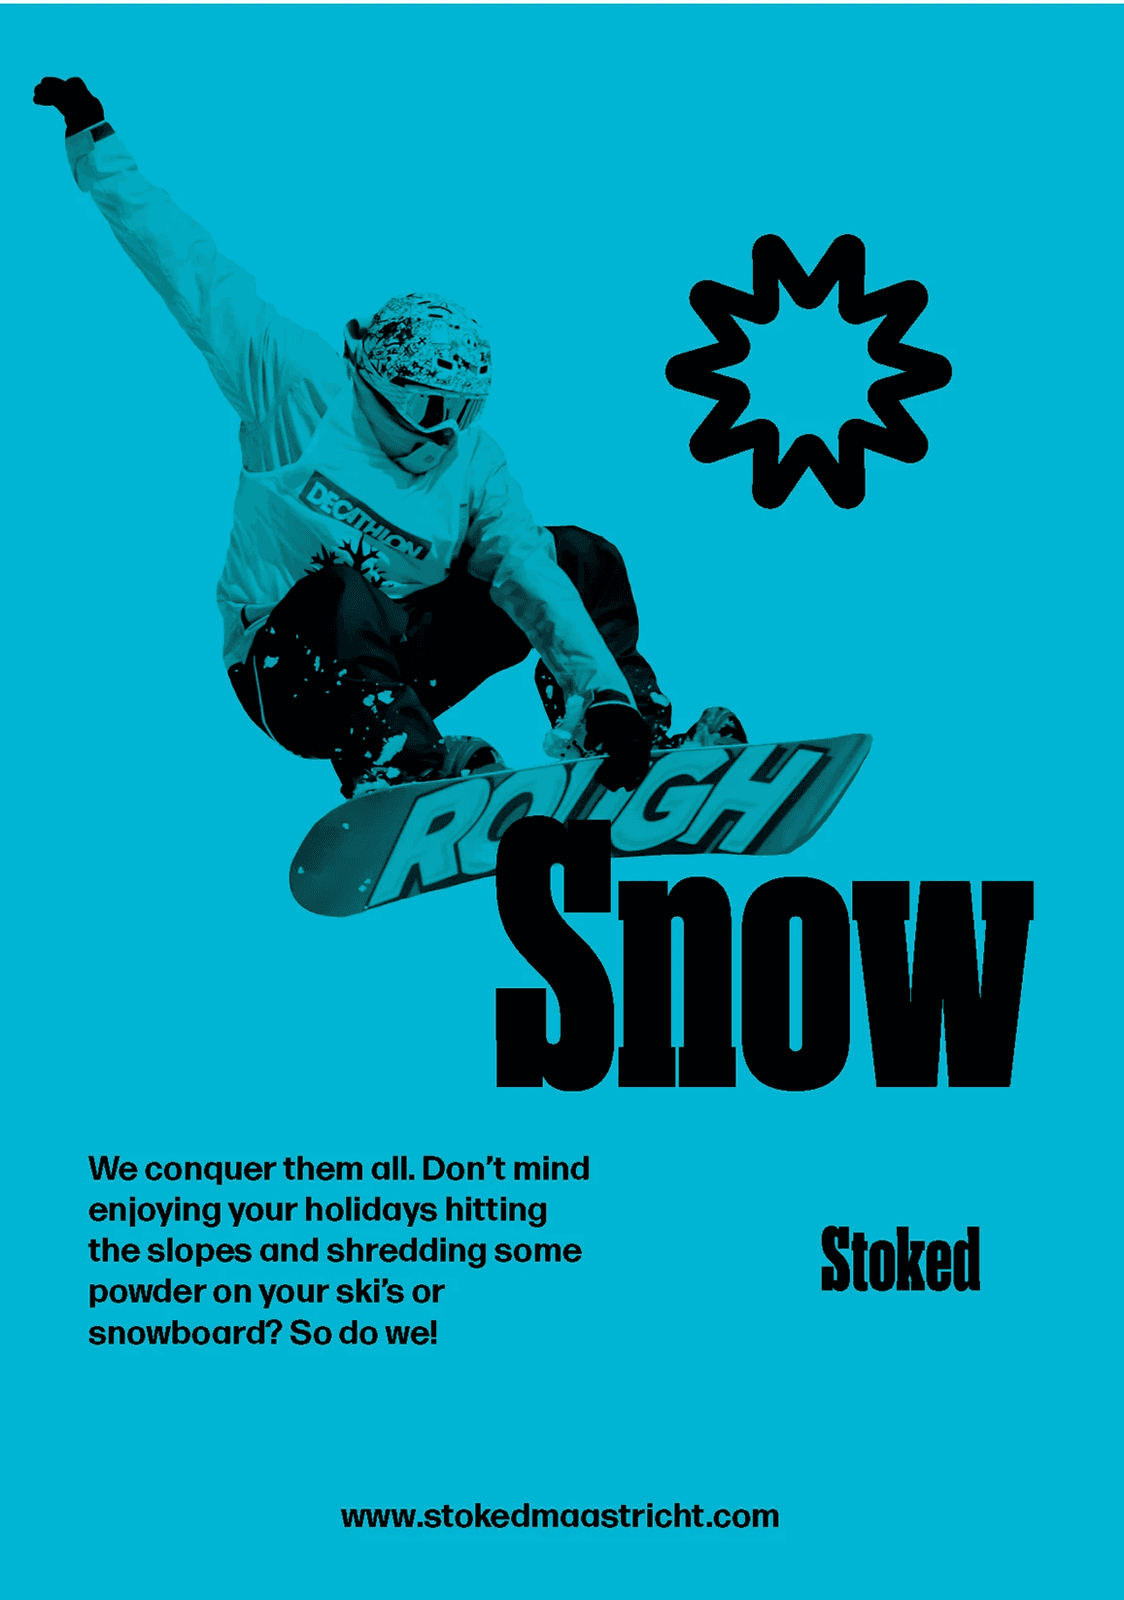
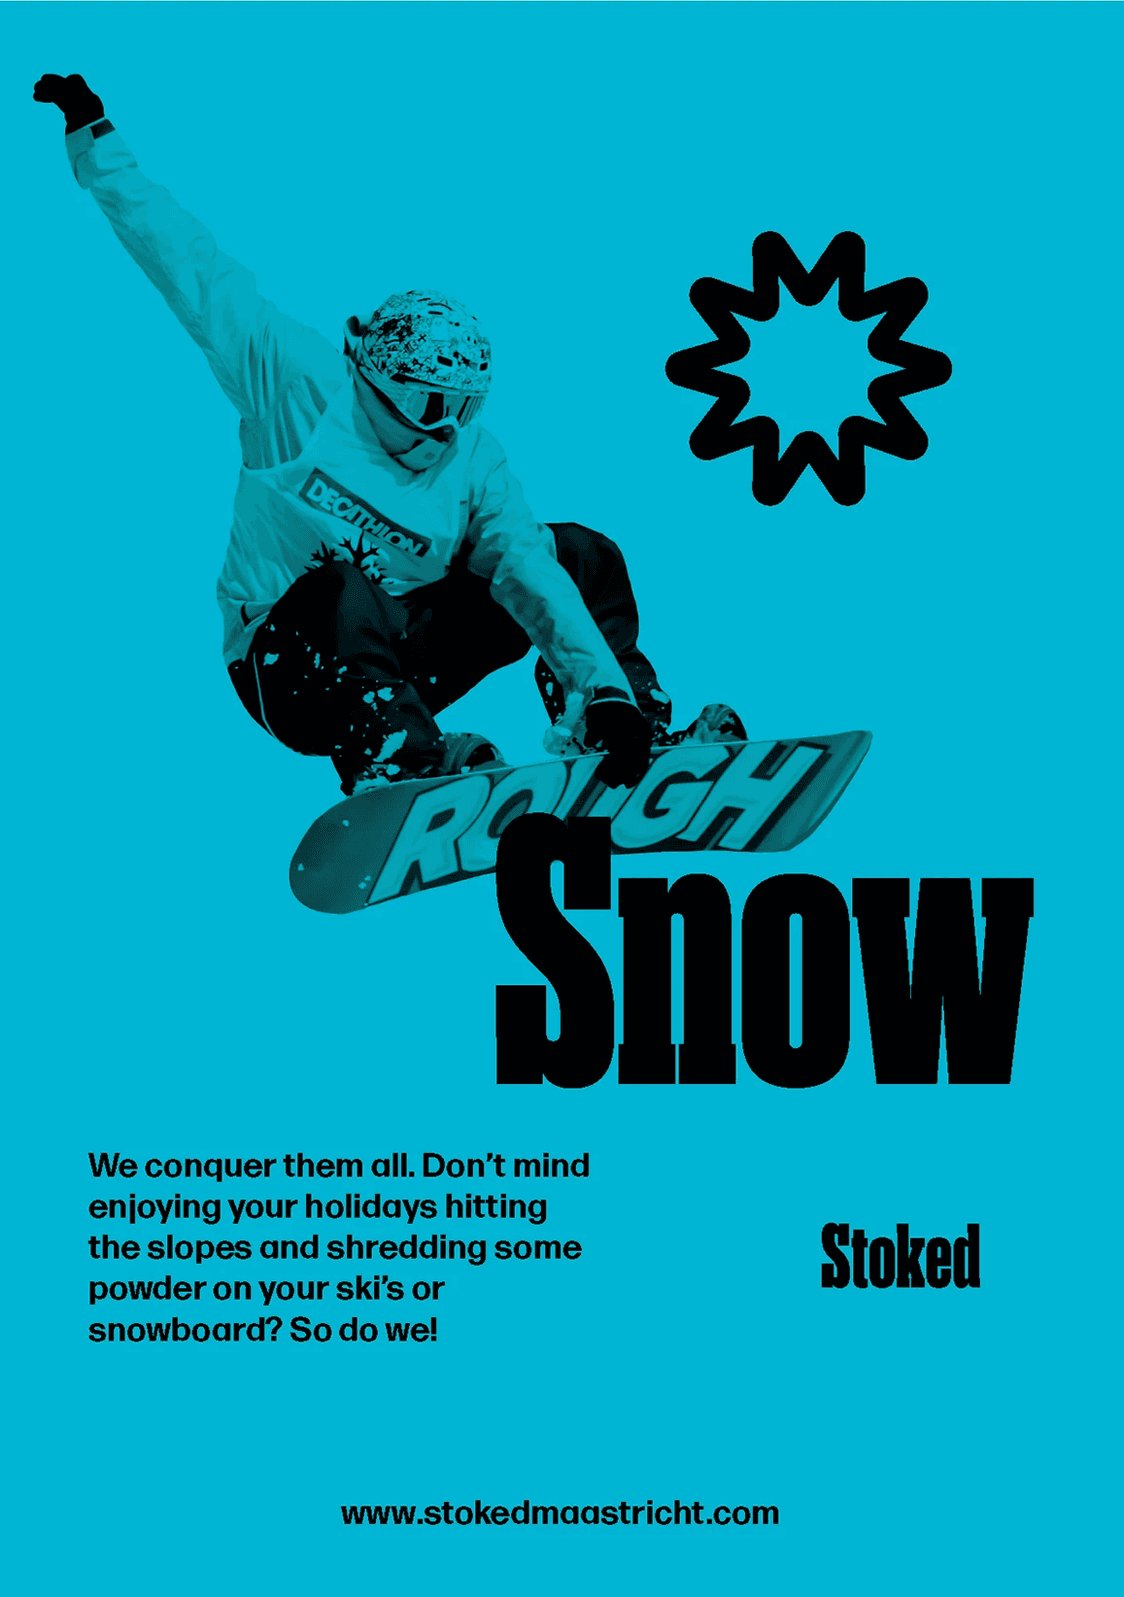
Add files via upload

diff --git a/assets/css/style.css b/assets/css/style.css
@@ -379,9 +379,13 @@ a.pill-dark:hover { background: #000; }
 .corner.br { bottom: 0; right: 0; border-bottom: 2px solid var(--ink); border-right: 2px solid var(--ink); }
 .footer-bar {
   padding: 22px 0;
-  display: flex; justify-content: space-between; align-items: center; gap: 14px;
-  flex-wrap: wrap;
+  display: grid; grid-template-columns: minmax(0,1fr) auto minmax(0,1fr); align-items: center;
   font-size: 13px; color: var(--muted-light);
+}
+.footer-bar > :first-child { justify-self: start; }
+.footer-bar > :nth-child(2) { justify-self: center; color: var(--ink); }
+.footer-bar > :last-child { justify-self: end; }
+@media (max-width: 700px) { .footer-bar { grid-template-columns: 1fr; justify-items: center; text-align: center; row-gap: 6px; } }
 }
 @media (max-width: 700px) {
   .footer-top { grid-template-columns: 1fr 1fr; }
@@ -552,8 +556,10 @@ a.pill-dark:hover { background: #000; }
 .ha-bg { position: absolute; inset: 0; width: 100%; height: 100%; object-fit: cover; object-position: center; }
 .ha-overlay { position: absolute; inset: 0; background: rgba(0,0,0,.42); }
 .ha-inner { position: relative; z-index: 1; }
-.ha-head { display: flex; align-items: flex-end; justify-content: space-between; gap: 40px; flex-wrap: wrap; margin-bottom: clamp(60px, 9vw, 130px); }
+.ha-head { display: flex; align-items: flex-end; justify-content: space-between; gap: 40px; flex-wrap: wrap; margin-bottom: clamp(28px, 3vw, 44px); }
 .ha-head .big-title { color: #fff; }
+.ha-col .big-title { color: #fff; }
+.ha-col .ha-intro { margin: 18px 0 0; }
 .ha-intro { max-width: 34ch; font-size: 16px; line-height: 1.5; color: #fff; margin: 0; }
 .ha-cols { display: grid; grid-template-columns: 1fr 1fr; gap: clamp(30px, 6vw, 100px); align-items: start; }
 .ha-col-r { display: grid; grid-template-columns: 1fr; gap: 56px; padding-left: clamp(0px, 8vw, 120px); }
@@ -566,7 +572,7 @@ a.pill-dark:hover { background: #000; }
 .ha-num { font-size: clamp(44px, 5vw, 60px); font-weight: 400; color: #f2f2f2; line-height: 1; letter-spacing: -0.04em; }
 @media (max-width: 700px) {
   .ha-cols { grid-template-columns: 1fr; }
-  .ha-col-r { padding-left: 0; grid-template-columns: 1fr 1fr; gap: 24px; }
+  .ha-col-r { padding-left: 0 !important; padding-top: 0 !important; grid-template-columns: 1fr 1fr; gap: 24px; }
   .ha-h2 { margin-top: 36px; }
 }
 
@@ -601,7 +607,7 @@ a.pill-dark:hover { background: #000; }
 .ab-desc { margin: 28px 0 0; font-size: 14px; line-height: 1.55; color: #7e7e7e; letter-spacing: -0.02em; max-width: 600px; }
 
 .ab-dark { background: #1b1b1c; color: #fff; padding: 120px 0 130px; }
-.ab-orgs-head { align-items: end; margin-bottom: 70px; }
+.ab-orgs-head { align-items: end; margin-bottom: 90px; column-gap: 120px; margin-top: 40px; }
 .ab-h2-white { font-size: clamp(32px, 3.4vw, 44px); font-weight: 400; line-height: 1.2; letter-spacing: -0.04em; margin: 0; max-width: 11ch; }
 .ab-orgs-p { font-size: 16px; line-height: 1.5; color: #bdbdbd; max-width: 406px; margin: 0 0 0 auto; letter-spacing: -0.02em; }
 .ab-org-grid { display: grid; grid-template-columns: repeat(4, 1fr); gap: 10px; }
@@ -621,4 +627,64 @@ a.pill-dark:hover { background: #000; }
   .ab-exp { padding-top: 80px; }
   .ab-approach { margin-top: 110px; }
   .ab-job-top { flex-direction: column; gap: 6px; }
+}
+
+/* ================= V10 additions ================= */
+/* numbered section heads (Perandory numerals like the original) */
+.sec-head { display: flex; align-items: flex-start; gap: clamp(20px, 3vw, 42px); }
+.sec-num { font-family: var(--condensed); font-size: clamp(56px, 8vw, 110px); line-height: .8; letter-spacing: 0; margin: 0; }
+.sec-num.blue { color: #6FE4FF; } .sec-num.red { color: #C0322D; } .sec-num.pink { color: #B75D69; }
+.sec-head .mid-title, .sec-head .big-title { margin: 0; padding-top: clamp(8px, 2vw, 22px); }
+
+/* --- Sydney --- */
+.sy-subcats { display: grid; grid-template-columns: repeat(2, minmax(0, 271px)); gap: 44px 20px; margin-top: 40px; }
+.sy-subcats span { font-size: 18px; letter-spacing: .02em; color: #fff; text-transform: uppercase; line-height: 1.15; max-width: 200px; }
+.mk-top { display: grid; grid-template-columns: 1fr minmax(300px, 593px); gap: 40px; align-items: start; margin-top: 0; }
+.mk-img { max-width: 593px; margin: 56px auto 0; }
+
+/* --- Let's Dance --- */
+.ld-h { font-family: var(--condensed); font-weight: 400; text-transform: uppercase; line-height: .95; letter-spacing: 0; margin: 0; }
+.ld-cap { font-size: 16px; color: rgba(255,255,255,.6); text-transform: uppercase; letter-spacing: .02em; margin-top: 14px; }
+.ld-list { display: flex; flex-direction: column; gap: 14px; margin-top: 28px; }
+.ld-list span { font-size: 16px; text-transform: uppercase; letter-spacing: .02em; color: var(--ink); }
+.ld-emoji-list { list-style: none; margin: 40px 0 0; padding: 0; display: flex; flex-direction: column; gap: 26px; }
+.ld-emoji-list li { display: flex; align-items: baseline; gap: 18px; font-size: 20px; color: #fff; }
+.ld-emoji-list .em { font-size: 34px; line-height: 1; filter: grayscale(1); }
+
+/* --- PowerVrouwen --- */
+.pv-stats { display: grid; grid-template-columns: repeat(3, minmax(0, 367px)); gap: 24px; margin-top: 56px; }
+.pv-stats .v { font-family: var(--display); font-size: 40px; line-height: 1; color: #B75D69; }
+.pv-stats .l { font-size: 24px; color: #fff; margin-top: 10px; letter-spacing: .01em; }
+.pv-mixed { display: flex; align-items: baseline; flex-wrap: wrap; gap: 18px; }
+.pv-mixed .w1 { font-family: var(--display); font-size: clamp(26px, 3vw, 41px); font-weight: 400; }
+.pv-mixed .w2 { font-family: var(--sans); font-size: clamp(36px, 4.3vw, 56px); font-weight: 500; letter-spacing: -0.02em; }
+.pv-duo { display: grid; gap: clamp(24px, 6vw, 100px); }
+.pv-duo.c-73 { grid-template-columns: 7fr 3fr; } .pv-duo.c-37 { grid-template-columns: 3fr 7fr; }
+.pv-duo h3 { font-size: clamp(34px, 4vw, 56px); font-weight: 600; letter-spacing: -0.03em; margin: 0; color: inherit; }
+.pv-duo .cap { font-size: 16px; margin: 12px 0 22px; color: #555; }
+.pv-duo img { width: 100%; display: block; }
+.pv-join { text-align: center; }
+.pv-join h2 { font-family: var(--condensed); font-size: clamp(60px, 8vw, 90px); text-transform: none; line-height: .95; margin: 0; }
+.pv-join p { max-width: 46ch; margin: 28px auto 0; }
+.pv-join .to-site { display: inline-block; margin-top: 30px; font-size: 14px; color: var(--ink); text-decoration: underline; text-underline-offset: 4px; }
+
+/* --- Stoked rebrand --- */
+.st-blue { background: #2F7FFF; padding: clamp(40px, 6vw, 90px) 0; }
+.st-blue h2 { font-family: var(--condensed); font-size: clamp(44px, 6.5vw, 84px); text-transform: uppercase; color: #101418; line-height: .95; margin: 0; }
+.st-sect { margin-top: clamp(70px, 9vw, 130px); }
+.st-sect img.st-photo { width: 100%; aspect-ratio: 16/9; object-fit: cover; display: block; }
+.st-row { display: flex; align-items: flex-start; gap: 26px; margin-top: 22px; flex-wrap: wrap; }
+.st-word { font-family: var(--condensed); font-size: clamp(70px, 11vw, 150px); line-height: .9; text-transform: uppercase; margin: 0; }
+.st-word.surf { color: #F7FF4D; } .st-word.skate { color: #FF4D2E; } .st-word.snow { color: #00F0FF; }
+.st-ico { width: clamp(38px, 4vw, 56px); height: auto; margin-top: clamp(18px, 3vw, 46px); flex: none; }
+.st-desc { font-size: 16px; line-height: 1.55; color: #E6E6E6; max-width: 60ch; margin: 18px 0 0; }
+
+/* --- Stiphout landscape full-width images --- */
+.full-imgs { display: flex; flex-direction: column; gap: clamp(28px, 4vw, 56px); }
+.full-imgs img { width: 100%; aspect-ratio: 16/10; object-fit: cover; display: block; }
+
+@media (max-width: 860px) {
+  .mk-top, .pv-duo.c-73, .pv-duo.c-37 { grid-template-columns: 1fr; }
+  .pv-stats { grid-template-columns: 1fr; gap: 34px; }
+  .sy-subcats { grid-template-columns: repeat(2, minmax(0, 1fr)); }
 }

diff --git a/work.html b/work.html
@@ -9,7 +9,7 @@
 <link rel="preconnect" href="https://fonts.googleapis.com">
 <link rel="preconnect" href="https://fonts.gstatic.com" crossorigin>
 <link href="https://fonts.googleapis.com/css2?family=Geist:wght@300;400;500;600;700&family=Inter:wght@400;500&family=Space+Grotesk:wght@500;700&display=swap" rel="stylesheet">
-<link rel="stylesheet" href="assets/css/style.css">
+<link rel="stylesheet" href="assets/css/style.css?v=10">
 
 <meta property="og:type" content="website">
 <meta property="og:title" content="Projects & Branding — DignaStudio">
@@ -65,7 +65,7 @@
   <img src="assets/images/1KBRhCo6NHKVn5nRfk7xx7rYAQ.jpg" alt="Social media management & 3D printing" loading="lazy">
   <div class="card-caption">Social media management & 3D printing</div>
 </a>
-<a class="project-card reveal" href="">
+<a class="project-card reveal" href="projects/bonnefanten.html">
   <img src="assets/images/4KLMpC2YSAhEmo6zrLtEhWOdHhA.jpg" alt="Interactive art installation" loading="lazy">
   <div class="card-caption">Interactive art installation</div>
 </a>
@@ -77,15 +77,15 @@
   <img src="assets/images/alI9fsgJW2PH68kstJMwLCHusk.png" alt="A campaign for a female business platform" loading="lazy">
   <div class="card-caption">A campaign for a female business platform</div>
 </a>
-<a class="project-card reveal" href="">
+<a class="project-card reveal" href="projects/greenscene.html">
   <img src="assets/images/1LCmktrPKE3fg5eB0acz9XCw.png" alt="Interactive multimedia story" loading="lazy">
   <div class="card-caption">Interactive multimedia story</div>
 </a>
-<a class="project-card reveal" href="">
+<a class="project-card reveal" href="about.html#experience">
   <img src="assets/images/Mb1SpgGCqTMcEmvKrffdjMD2s.png" alt="A system to maintain healthy sleep habits" loading="lazy">
   <div class="card-caption">A system to maintain healthy sleep habits</div>
 </a>
-<a class="project-card reveal" href="">
+<a class="project-card reveal" href="projects/steam.html">
   <img src="assets/images/f844mpcv3d278ZgnQ2Nbx9zhao.png" alt="STEAM-based educating through VR" loading="lazy">
   <div class="card-caption">STEAM-based educating through VR</div>
 </a>
@@ -151,6 +151,6 @@
     </div>
   </div>
 </footer>
-<script src="assets/js/main.js"></script>
+<script src="assets/js/main.js?v=10"></script>
 </body>
 </html>

diff --git a/index.html b/index.html
@@ -9,7 +9,7 @@
 <link rel="preconnect" href="https://fonts.googleapis.com">
 <link rel="preconnect" href="https://fonts.gstatic.com" crossorigin>
 <link href="https://fonts.googleapis.com/css2?family=Geist:wght@300;400;500;600;700&family=Inter:wght@400;500&family=Space+Grotesk:wght@500;700&display=swap" rel="stylesheet">
-<link rel="stylesheet" href="assets/css/style.css">
+<link rel="stylesheet" href="assets/css/style.css?v=10">
 
 <meta property="og:type" content="website">
 <meta property="og:title" content="Digna Studio - Designer | Creator | UGC">
@@ -142,12 +142,10 @@
   <img class="ha-bg" src="assets/images/OYgknsLv5gv8yH3k2fbcFdj1730.jpeg" alt="" loading="lazy">
   <div class="ha-overlay"></div>
   <div class="container ha-inner">
-    <div class="ha-head">
-      <h2 class="big-title reveal">About Digna</h2>
-      <p class="ha-intro reveal">Welcome and nice to meet you! My name is Digna.</p>
-    </div>
     <div class="ha-cols">
       <div class="ha-col reveal">
+        <h2 class="big-title reveal">About Digna</h2>
+        <p class="ha-intro reveal">Welcome and nice to meet you! My name is Digna.</p>
         <h3 class="ha-h">Services</h3>
         <ul class="ha-list">
           <li>UGC &amp; Content Creation</li>
@@ -160,7 +158,7 @@
           <li><a href="mailto:digna.lambrichtsx@gmail.com">digna.lambrichtsx@gmail.com</a></li>
         </ul>
       </div>
-      <div class="ha-col ha-col-r reveal">
+      <div class="ha-col ha-col-r reveal" style="padding-top:118px;">
         <div class="ha-stat">
           <h3 class="ha-h">Years of<br>Experience</h3>
           <div class="ha-num" data-count="6">6</div>
@@ -225,6 +223,6 @@
     </div>
   </div>
 </footer>
-<script src="assets/js/main.js"></script>
+<script src="assets/js/main.js?v=10"></script>
 </body>
 </html>

diff --git a/about.html b/about.html
@@ -9,7 +9,7 @@
 <link rel="preconnect" href="https://fonts.googleapis.com">
 <link rel="preconnect" href="https://fonts.gstatic.com" crossorigin>
 <link href="https://fonts.googleapis.com/css2?family=Geist:wght@300;400;500;600;700&family=Inter:wght@400;500&family=Space+Grotesk:wght@500;700&display=swap" rel="stylesheet">
-<link rel="stylesheet" href="assets/css/style.css">
+<link rel="stylesheet" href="assets/css/style.css?v=10">
 
 <meta property="og:type" content="website">
 <meta property="og:title" content="About Digna - Designer | Creator | UGC">
@@ -70,7 +70,7 @@
       <div class="ab-working-r">Content creation, (Web) Design, and social media</div>
     </div>
 
-    <div class="ab-row ab-exp">
+    <div class="ab-row ab-exp" id="experience">
       <div class="ab-exp-l"><h2 class="ab-h ab-sticky">Highlighted Experience</h2></div>
       <div class="ab-exp-r">
         <article class="ab-job">
@@ -153,6 +153,6 @@
     </div>
   </div>
 </footer>
-<script src="assets/js/main.js"></script>
+<script src="assets/js/main.js?v=10"></script>
 </body>
 </html>

diff --git a/contact.html b/contact.html
@@ -9,7 +9,7 @@
 <link rel="preconnect" href="https://fonts.googleapis.com">
 <link rel="preconnect" href="https://fonts.gstatic.com" crossorigin>
 <link href="https://fonts.googleapis.com/css2?family=Geist:wght@300;400;500;600;700&family=Inter:wght@400;500&family=Space+Grotesk:wght@500;700&display=swap" rel="stylesheet">
-<link rel="stylesheet" href="assets/css/style.css">
+<link rel="stylesheet" href="assets/css/style.css?v=10">
 
 <meta property="og:type" content="website">
 <meta property="og:title" content="Contact — DignaStudio">
@@ -114,6 +114,6 @@
     </div>
   </div>
 </footer>
-<script src="assets/js/main.js"></script>
+<script src="assets/js/main.js?v=10"></script>
 </body>
 </html>
